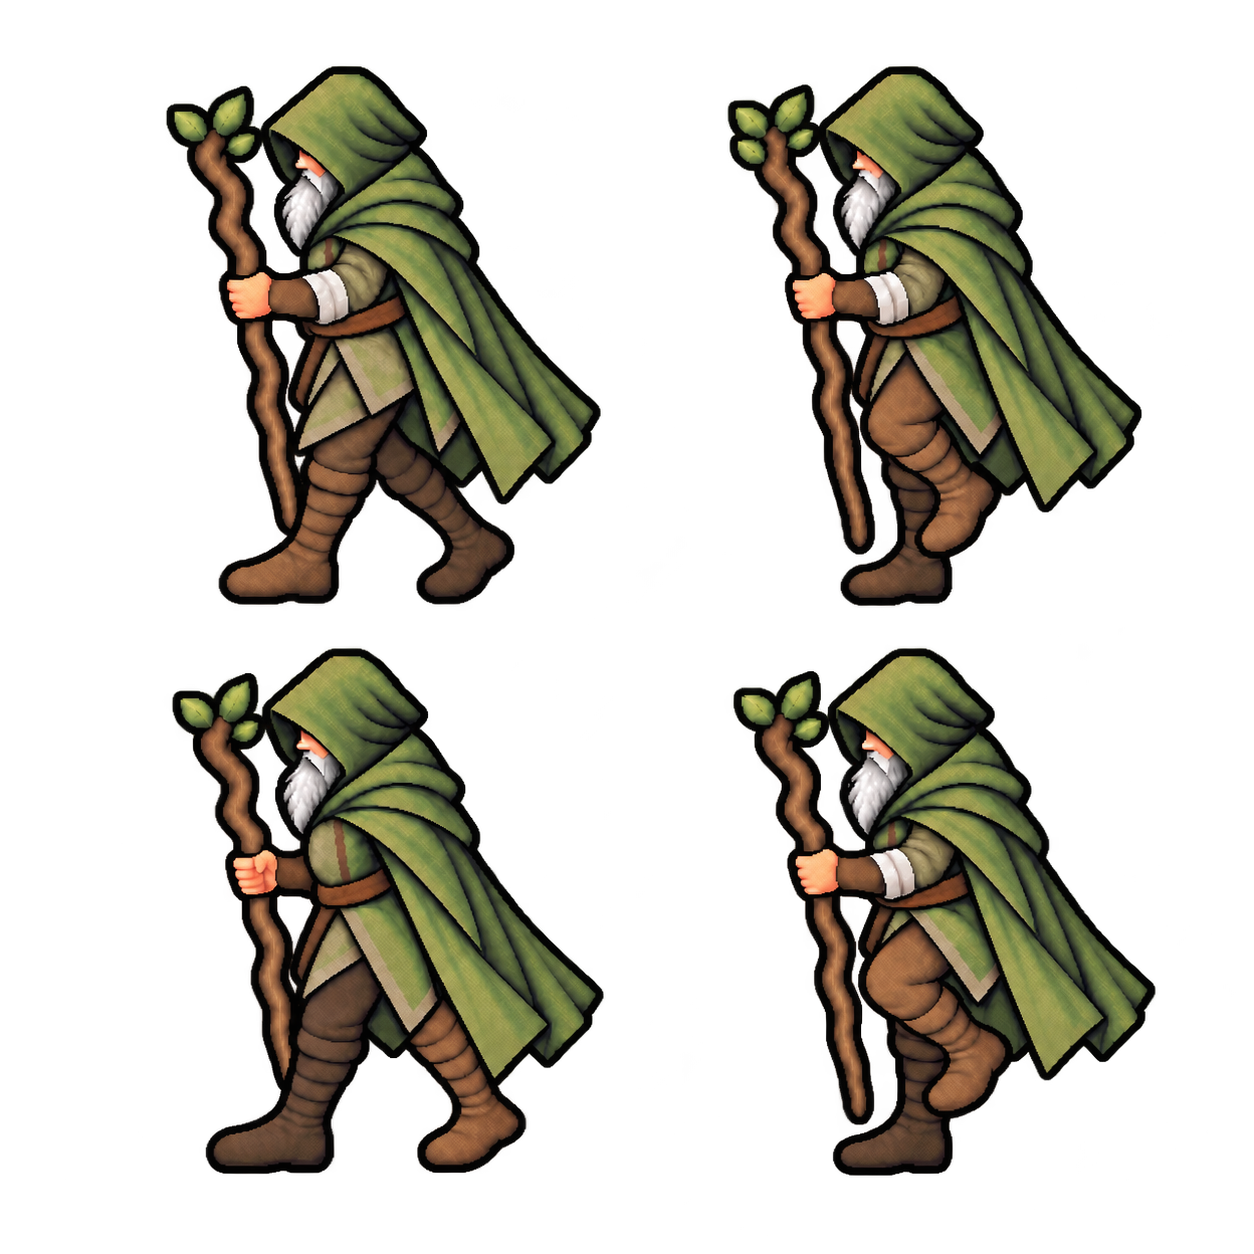
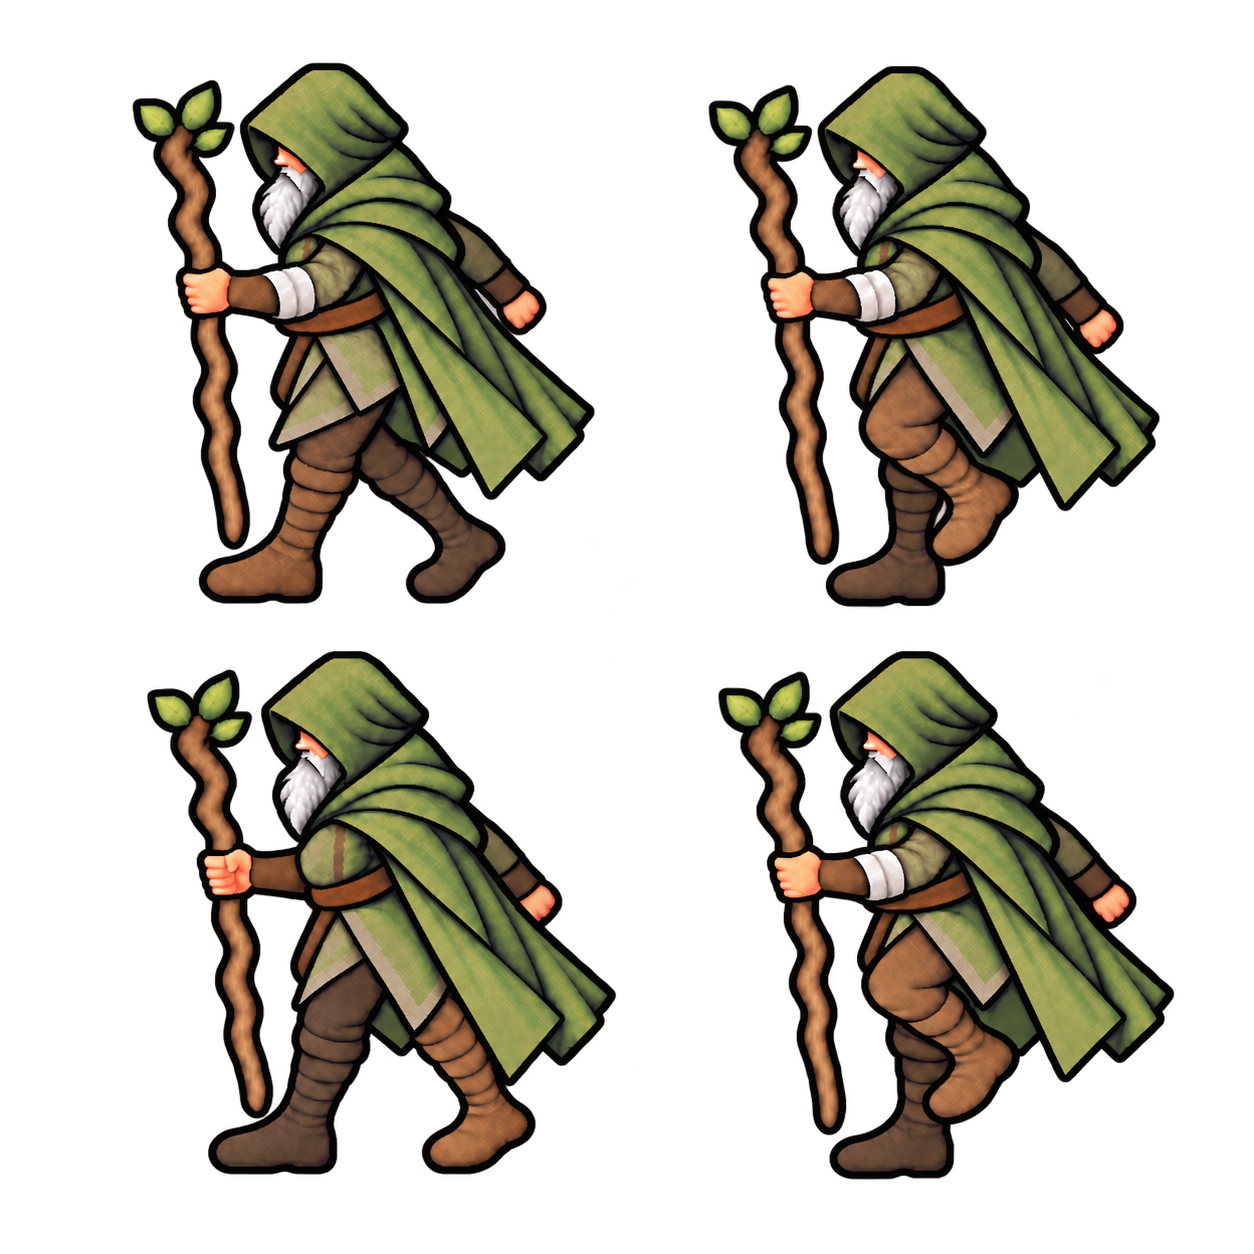
Redraw left walk with near-side staff and far right arm swing

diff --git a/docs/art/druid-walk-left-v3/README.md b/docs/art/druid-walk-left-v3/README.md
@@ -10,7 +10,7 @@
 
 Вместо очередного набора похожих стоек заданы четыре ключевые фазы: ближняя левая нога впереди → она принимает вес, дальняя правая проходит под тазом → дальняя правая нога впереди, ближняя уходит назад → дальняя принимает вес, ближняя проходит под тазом. В широких стойках ноги разнесены, в проходных позах стопа переносимой ноги поднимается. Более светлая ближняя нога и более тёмная дальняя помогают видеть смену опоры. Вторую половину рисунка дополнительно исправили, чтобы передняя стопа не повторяла ту же ногу, что в первом кадре.
 
-По новым замечаниям размах шага сокращён без уменьшения самой фигуры. Сохранены четыре фазы и чередование ближней и дальней ноги. Целевое сокращение — около четверти; оценка расстояния между центрами сапог по границам их рисунка дала следующие значения на сетке 64×80:
+В предыдущей правке размах шага сокращён без уменьшения самой фигуры. Сохранены четыре фазы и чередование ближней и дальней ноги. Целевое сокращение — около четверти; тогда оценка расстояния между центрами сапог по границам их рисунка дала следующие значения на сетке 64×80:
 
 | Опорная поза | До правки | После правки | Сокращение |
 | --- | --- | --- | --- |
@@ -19,7 +19,11 @@
 
 Это оценка изображённых сапог, а не измерение суставов или расстояния перемещения героя. Скорость движения в игре не менялась.
 
-Посох остаётся в анатомически левой, ближней руке во всех кадрах, включая нижний правый. Видны только эта рука и её хват посоха; правая рука скрыта плащом, лишняя рука в первом кадре убрана. Плащ раскрывается в области ног. Рисунок исправлен через генерацию целых поз; отдельные голени не вырезаются, неподвижный торс не накладывается и зеркальные копии не используются. Убедительность шага и хвата оценивается по GIF и исходнику перед интеграцией.
+Последнее уточнение пользователя: **левая ближняя рука держит посох, свободная правая плавно качается за корпусом**. Прежнее требование целиком скрывать правую руку заменено этим движением. Правый рукав, предплечье и пустая кисть рисуются как один связанный дальний силуэт, с небольшим последовательным махом; это не дополнительная левая рука, появляющаяся в одном кадре.
+
+Посох остаётся в анатомически левой, ближней руке во всех четырёх позах. Его древко должно читаться непрерывно от навершия через хват до нижнего конца. Нижняя часть выведена чуть вперёд относительно сапог; при пересечениях посох рисуется перед обеими ногами, а свободная правая рука — за корпусом. Это порядок перекрытий внутри рисунка PNG; игровой код не менялся.
+
+Плащ раскрывается в области ног. Рисунок исправлен через генерацию целых поз; отдельные голени не вырезаются, неподвижный торс не накладывается и зеркальные копии не используются. Убедительность маха руки, хвата и глубины посоха оценивается по GIF и исходнику перед интеграцией.
 
 Исходный лист **1254×1254**, два ряда по две фигуры, сохранён без изменений из последней генерации. Порядок кадров — слева направо, сверху вниз. Полоса **256×80** содержит четыре кадра **64×80**. Для всех фигур применяется общий масштаб **1/8**. Горизонтальный ориентир зелёной области капюшона совмещён с x=32, нижняя граница силуэта — с y=75; целые позы помещаются в кадр без обрезания. Цвета PNG не ограничены, альфа — 0 или 255.
 
